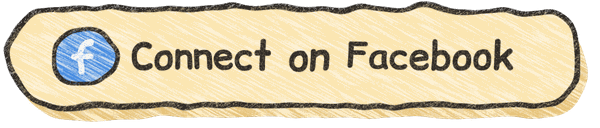
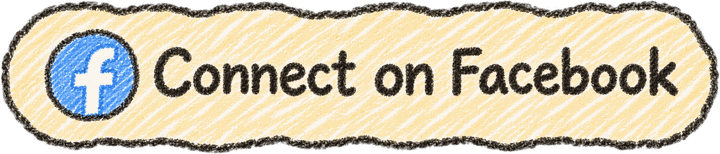
feat: hand-drawn tech badges in Stack sheet, new Facebook/LinkedIn buttons
Claude-Session: https://claude.ai/code/session_01TRt6xKjM4WueVeKvVqTrCH

diff --git a/scripts/crayon/compose_stack.py b/scripts/crayon/compose_stack.py
@@ -1,0 +1,61 @@
+"""Stack sheet: crayon-drawn card + labels, with hand-drawn badge images pasted on top.
+Badges are transparent PNGs in scripts/crayon/badges/<name>.png (cropped to content)."""
+import os, sys
+HERE = os.path.dirname(os.path.abspath(__file__))
+OUT = sys.argv[1] if len(sys.argv) > 1 else os.path.join(HERE, "out")
+sys.argv = [sys.argv[0], OUT]
+sys.path.insert(0, HERE)
+import numpy as np
+from PIL import Image
+import build, crayon
+from build import HEAD, INK, CREAM, YELLOW, SKY, PINK, GREEN, poly, wave, dash_burst, shell
+
+ROWS = [
+    ("Languages", ["typescript", "javascript", "python", "go"]),
+    ("Frontend", ["nextjs", "react", "tailwind"]),
+    ("Backend & AI", ["nestjs", "fastapi", "prisma", "langchain", "langgraph"]),
+    ("Data & infra", ["postgresql", "redis", "rabbitmq", "docker"]),
+]
+W, H, S = 1400, 470, 2
+CY = [78 + i * 98 for i in range(4)]
+BX, BH, GAP = 318, 54, 12
+
+
+def background(seed=31):
+    labels = "".join(
+        f'<div class="box txt" style="left:70px;top:{cy-26}px;font-size:31px;font-weight:700;line-height:52px;white-space:nowrap">{lab}</div>'
+        for (lab, _), cy in zip(ROWS, CY))
+    dots = "".join(f'<circle cx="46" cy="{cy}" r="8" fill="{c}" stroke="{INK}" stroke-width="3"/>'
+                   for cy, c in zip(CY, [YELLOW, SKY, PINK, GREEN]))
+    sep = "".join(f'<path d="{poly(wave(40, 1350, cy+49, 2.5, 160, i))}" fill="none" stroke="{INK}" stroke-opacity=".35" stroke-width="2.4" stroke-dasharray="14 12"/>'
+                  for i, cy in enumerate(CY[:3]))
+    svg = f'''<svg width="{W}" height="{H}">
+<rect x="18" y="16" width="1370" height="440" rx="36" fill="#e8c57c"/>
+<rect x="10" y="8" width="1370" height="440" rx="36" fill="{CREAM}" stroke="{INK}" stroke-width="5.5"/>
+{sep}{dots}{dash_burst(1300, 34, 0.9)}{shell(1332, 412, 1.0)}</svg>{labels}'''
+    path = os.path.join(HERE, "html", "stack-bg.html")
+    os.makedirs(os.path.dirname(path), exist_ok=True)
+    open(path, "w").write(HEAD + f'<body style="width:{W}px;height:{H}px">' + svg + "</body></html>")
+    layers = [crayon.shoot(path, W, H, m, f"/tmp/stackbg.{m}.png") for m in ("fill", "ink", "text")]
+    img = crayon.crayonify(*layers, seed=seed)
+    return Image.fromarray((np.clip(img, 0, 1) * 255).astype(np.uint8), "RGBA")
+
+
+def main():
+    bg = background()
+    for (lab, names), cy in zip(ROWS, CY):
+        x = BX
+        for n in names:
+            b = Image.open(os.path.join(HERE, "badges", n + ".png")).convert("RGBA")
+            h = BH * S; w = round(h * b.width / b.height)
+            b = b.resize((w, h), Image.LANCZOS)
+            bg.alpha_composite(b, (x * S, cy * S - h // 2))
+            x += w // S + GAP
+    os.makedirs(OUT, exist_ok=True)
+    out = os.path.join(OUT, "stack.png")
+    bg.quantize(256, method=Image.Quantize.FASTOCTREE, dither=Image.Dither.FLOYDSTEINBERG).save(out, optimize=True)
+    print("wrote", out, bg.size, os.path.getsize(out) // 1024, "KB")
+
+
+if __name__ == "__main__":
+    main()

diff --git a/README.md b/README.md
@@ -30,10 +30,10 @@
 <h3 align="center"><img src="assets/h-stack.jpg" width="100%" alt="Stack" /></h3>
 
 <p align="center">
-  <img src="assets/stack.png" width="100%" alt="Stack. Languages: TypeScript, JavaScript, Python, Go. Frontend: Next.js, React, Tailwind CSS. Backend and AI: NestJS, FastAPI, Prisma, LangGraph. Data and infra: PostgreSQL, Redis, RabbitMQ, Docker." />
+  <img src="assets/stack.png" width="100%" alt="Stack. Languages: TypeScript, JavaScript, Python, Go. Frontend: Next.js, React, Tailwind CSS. Backend and AI: NestJS, FastAPI, Prisma, LangChain, LangGraph. Data and infra: PostgreSQL, Redis, RabbitMQ, Docker." />
 </p>
 
 <p align="center">
-  <a href="https://facebook.com/Fi.is.me.hello"><img src="assets/btn-facebook.png" width="270" alt="Connect on Facebook" /></a>
-  <a href="https://www.linkedin.com/in/phi-nguy%E1%BB%85n-7351ab3b5"><img src="assets/btn-linkedin.png" width="270" alt="Connect on LinkedIn" /></a>
+  <a href="https://facebook.com/Fi.is.me.hello"><img src="assets/btn-facebook.png" width="300" alt="Connect on Facebook" /></a>
+  <a href="https://www.linkedin.com/in/phi-nguy%E1%BB%85n-7351ab3b5"><img src="assets/btn-linkedin.png" width="300" alt="Connect on LinkedIn" /></a>
 </p>
